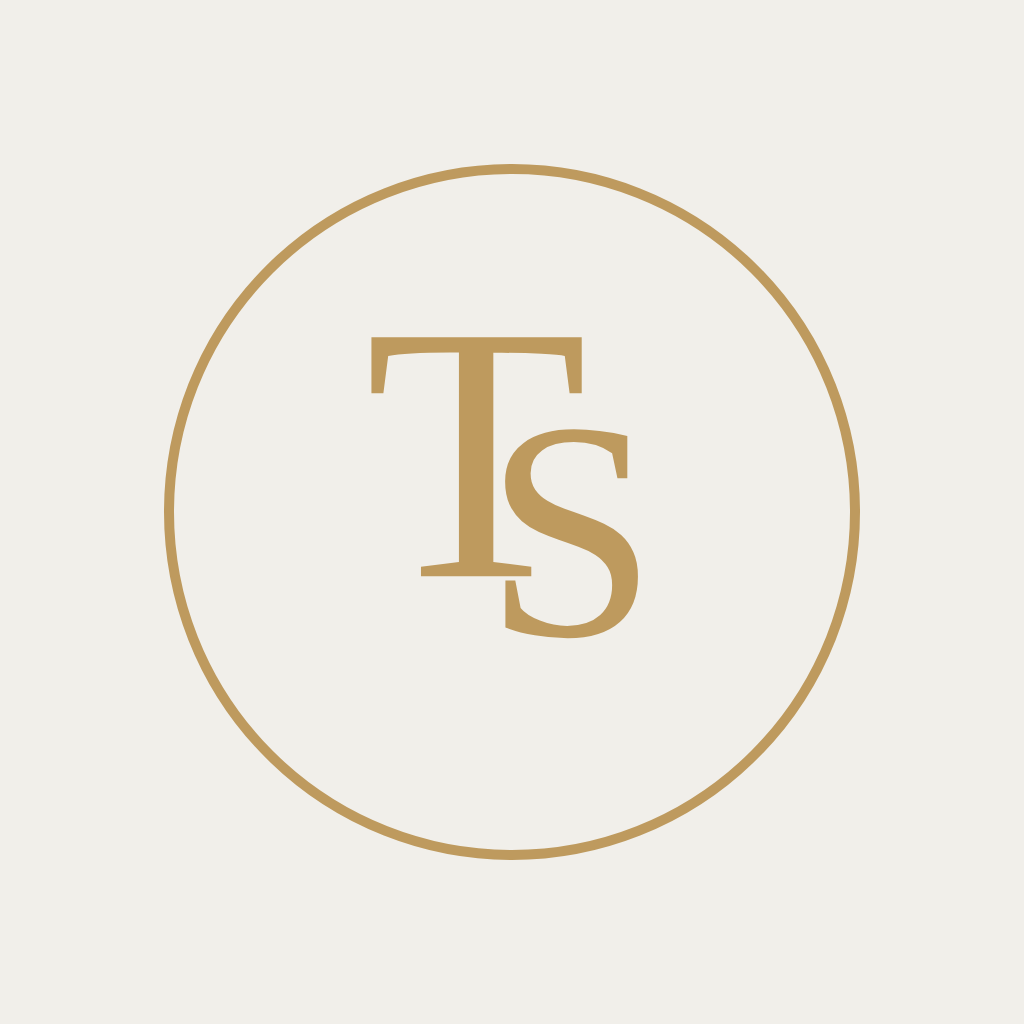
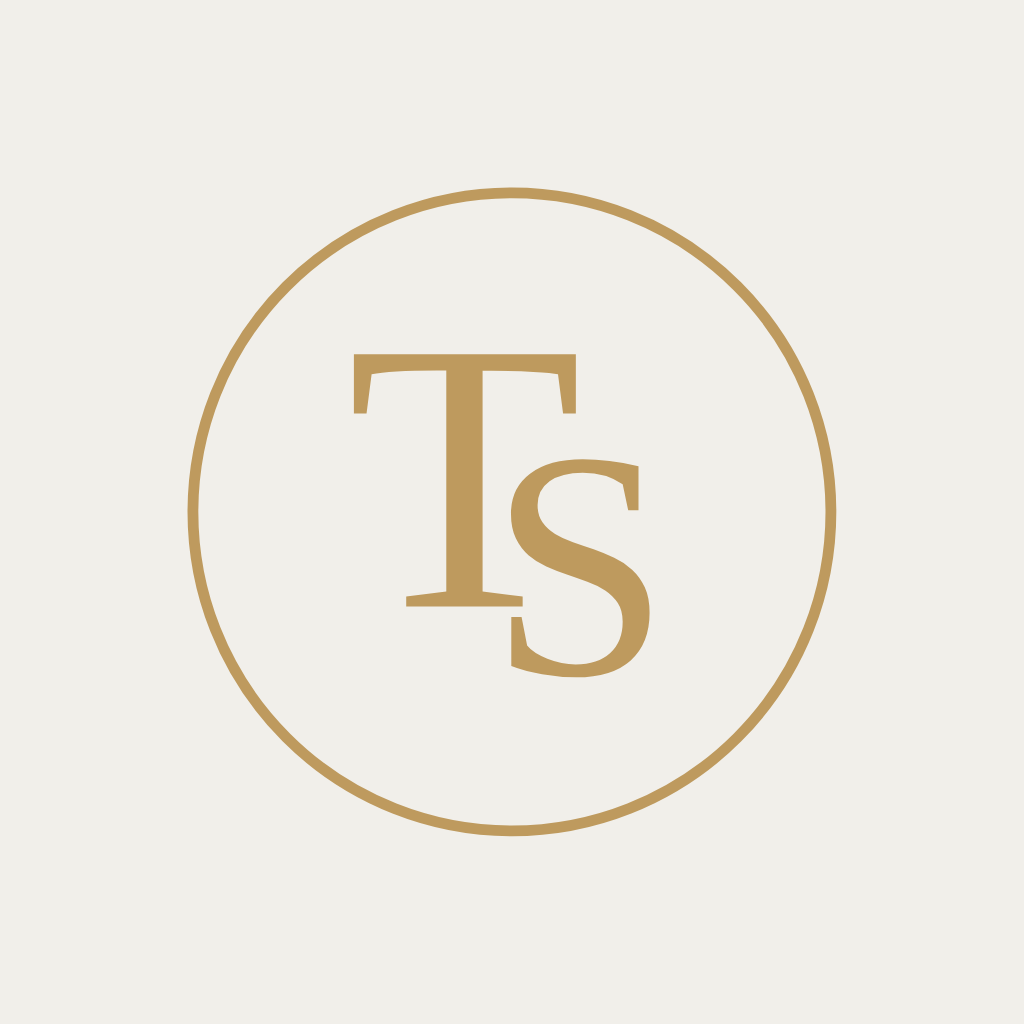
Le monogramme devient un tracé, partagé par les trois surfaces
Les lettres du monogramme s'appuyaient sur le serif du système : Georgia sur
le web, Times sur iOS, le serif d'Android. Trois dessins pour une même marque
— et, à l'impression, un rendu qui dépendait des polices installées sur la
machine.

Les contours du T et du S sont désormais figés dans src/lib/monogramme.js,
extraits de Liberation Serif — métriquement compatible avec Times, et la fonte
que le navigateur rendait pour les maquettes validées. Le dessin est donc
identique à celui qui a été approuvé, mais il ne dépend plus de rien.
Vérification par superposition : le tracé recouvre exactement l'ancien rendu
texte, sans débord.

Ce module pur est partagé par les trois surfaces — écran, documents PDF,
icônes des stores — de sorte qu'aucune ne peut dériver des autres.

Le générateur d'icônes ne vivait jusqu'ici que dans un dossier de travail :
personne d'autre n'aurait pu régénérer les fichiers d'assets/. Il entre dans
le dépôt sous scripts/make-icons.js, lit les mêmes tracés, et accepte un
PLAYWRIGHT_CHROMIUM pour les environnements où Chromium est déjà installé
hors du cache de Playwright.

Vérifié : 200 tests, les quatre icônes régénérées par le script du dépôt, la
marque à l'écran de 28 à 240 px sur clair et sur sombre, et l'en-tête des
documents PDF.

Claude-Session: https://claude.ai/code/session_0122zQepVjjxt6S8ixg8BCJB

Changed region(s): [[0.1562, 0.1562, 0.8438, 0.8438], [0.3438, 0.3125, 0.6562, 0.6875]]

diff --git a/tasalle/scripts/make-icons.js b/tasalle/scripts/make-icons.js
@@ -1,0 +1,106 @@
+/**
+ * Génère les icônes de l'application à partir du monogramme.
+ *
+ *   node scripts/make-icons.js
+ *
+ * Les quatre fichiers d'assets/ sont écrasés. Le dessin vient de
+ * src/lib/monogramme.js — le même que celui de l'écran et des documents PDF —
+ * afin qu'aucune des trois surfaces ne dérive des autres.
+ *
+ * Dépend de Playwright, qui n'est pas une dépendance du projet : c'est un
+ * outil de fabrication, lancé à la main quand la marque change.
+ *   npm i -D playwright
+ *
+ * Si Chromium est déjà présent hors du cache de Playwright, pointez-le :
+ *   PLAYWRIGHT_CHROMIUM=/chemin/vers/chrome node scripts/make-icons.js
+ */
+const fs = require('fs');
+const path = require('path');
+const { chromium } = require('playwright');
+
+const RACINE = path.join(__dirname, '..');
+const OUT = path.join(RACINE, 'assets');
+
+// Le module de tracés est en syntaxe ESM ; ce script tourne sous Node en CJS.
+// Plutôt que d'ajouter une chaîne de compilation pour trois constantes, on les
+// lit dans le fichier. C'est volontairement rustique, et ça casse bruyamment
+// si le fichier change de forme.
+function lireMonogramme() {
+  const src = fs.readFileSync(path.join(RACINE, 'src/lib/monogramme.js'), 'utf8');
+  const constante = (nom) => {
+    const m = src.match(new RegExp(`export const ${nom} =\\s*'([^']*)'`));
+    if (!m) throw new Error(`${nom} introuvable dans src/lib/monogramme.js`);
+    return m[1];
+  };
+  const cercle = src.match(/MONOGRAMME_CERCLE = \{([^}]*)\}/);
+  if (!cercle) throw new Error('MONOGRAMME_CERCLE introuvable');
+  const nombre = (cle) => Number(cercle[1].match(new RegExp(`${cle}:\\s*([\\d.]+)`))[1]);
+  return {
+    T: constante('MONOGRAMME_T'),
+    S: constante('MONOGRAMME_S'),
+    cercle: { cx: nombre('cx'), cy: nombre('cy'), r: nombre('r'), largeur: nombre('largeur') },
+  };
+}
+
+const OR = '#BE9A5E';
+const CREME = '#F1EFEA';
+
+const page = ({ size, bg, scale, radiusRatio }, m) => {
+  const d = size * scale;
+  return `
+<!doctype html><html><head><meta charset="utf-8"><style>
+  html, body { margin:0; padding:0; width:${size}px; height:${size}px; background:transparent; }
+  .fond {
+    width:${size}px; height:${size}px;
+    ${bg ? `background:${bg};` : ''}
+    ${radiusRatio ? `border-radius:${size * radiusRatio}px;` : ''}
+    display:flex; align-items:center; justify-content:center;
+  }
+</style></head><body><div class="fond">
+  <svg width="${d}" height="${d}" viewBox="0 0 100 100" xmlns="http://www.w3.org/2000/svg">
+    <circle cx="${m.cercle.cx}" cy="${m.cercle.cy}" r="${m.cercle.r}"
+            stroke="${OR}" stroke-width="${m.cercle.largeur}" fill="none"/>
+    <path d="${m.T}" fill="${OR}"/>
+    <path d="${m.S}" fill="${OR}"/>
+  </svg>
+</div></body></html>`;
+};
+
+const CIBLES = [
+  // iOS : pleine, sans transparence ni coins arrondis (iOS masque lui-même)
+  { file: 'icon.png', size: 1024, bg: CREME, scale: 0.66, radiusRatio: 0, transparent: false },
+
+  // Android adaptatif : avant-plan transparent. La marque doit tenir dans la
+  // zone sûre centrale, le système rognant les bords.
+  { file: 'adaptive-icon.png', size: 1024, bg: null, scale: 0.46, radiusRatio: 0, transparent: true },
+
+  // Écran de lancement : marque seule, Expo applique la couleur de fond
+  { file: 'splash-icon.png', size: 512, bg: null, scale: 0.62, radiusRatio: 0, transparent: true },
+
+  // Favicon du back-office web : carré arrondi, lisible à 16 px
+  { file: 'favicon.png', size: 196, bg: CREME, scale: 0.78, radiusRatio: 0.22, transparent: false },
+];
+
+(async () => {
+  const monogramme = lireMonogramme();
+  // Certains environnements fournissent Chromium hors du cache de Playwright
+  // (conteneurs CI, images préinstallées) : on laisse une porte de sortie
+  // plutôt que d'imposer `npx playwright install`.
+  const browser = await chromium.launch(
+    process.env.PLAYWRIGHT_CHROMIUM ? { executablePath: process.env.PLAYWRIGHT_CHROMIUM } : {}
+  );
+
+  for (const cible of CIBLES) {
+    const p = await browser.newPage({ viewport: { width: cible.size, height: cible.size } });
+    await p.setContent(page(cible, monogramme));
+    await p.waitForTimeout(150);
+    await p.screenshot({ path: path.join(OUT, cible.file), omitBackground: cible.transparent });
+    console.log(`  ✓ ${cible.file} — ${cible.size}×${cible.size}${cible.transparent ? ' (transparent)' : ''}`);
+    await p.close();
+  }
+
+  await browser.close();
+})().catch((e) => {
+  console.error('Échec :', e.message);
+  process.exit(1);
+});

diff --git a/tasalle/src/components/TasalleLogo.js b/tasalle/src/components/TasalleLogo.js
@@ -1,26 +1,22 @@
-import { Platform, View, Text } from 'react-native';
-import Svg, { Circle, Text as SvgText } from 'react-native-svg';
+import { View, Text } from 'react-native';
+import Svg, { Circle, Path } from 'react-native-svg';
 import { useTheme } from '../context/ThemeContext';
 import { useI18n } from '../i18n';
+import {
+  MONOGRAMME_VIEWBOX,
+  MONOGRAMME_CERCLE,
+  MONOGRAMME_T,
+  MONOGRAMME_S,
+} from '../lib/monogramme';
 
 /**
  * Marque Tasalle — monogramme TS dans un filet circulaire, or sur fond libre.
  *
- * Le monogramme est tracé en SVG plutôt qu'en `<Text>` classique : la
- * superposition du T et du S demande un positionnement au sous-pixel que les
- * primitives de mise en page ne donnent pas.
- *
- * Les lettres restent latines dans les deux langues : la translittération
- * arabe de la marque n'est pas arrêtée.
+ * Les lettres sont des contours, pas du texte : une marque ne peut pas
+ * dépendre des polices installées sur l'appareil. Leur tracé vit dans
+ * lib/monogramme.js, que partagent aussi les documents PDF et le générateur
+ * d'icônes — trois rendus, un seul dessin.
  */
-
-// react-native-svg ne prend qu'une famille par plateforme, pas de pile de
-// repli comme en CSS. On nomme donc le serif de chacune.
-const SERIF = Platform.select({
-  ios: 'Times New Roman',
-  android: 'serif',
-  default: "Georgia, 'Times New Roman', serif",
-});
 
 /** Monogramme seul — utilisable comme avatar, favicon ou puce d'en-tête. */
 export function TasalleMark({ size = 40, color }) {
@@ -30,22 +26,19 @@ export function TasalleMark({ size = 40, color }) {
   // Repère de 100 × 100 : toutes les proportions sont relatives, la marque
   // reste donc nette à n'importe quelle taille.
   return (
-    <Svg width={size} height={size} viewBox="0 0 100 100">
+    <Svg width={size} height={size} viewBox={MONOGRAMME_VIEWBOX}>
       {/* Filet circulaire. Le rayon tient compte de l'épaisseur du trait pour
           que le cercle ne soit pas rogné par le bord du viewBox. */}
-      <Circle cx="50" cy="50" r="47.2" stroke={or} strokeWidth="1.6" fill="none" />
-
-      {/* T et S se chevauchent : le S descend sous la ligne du T et mord sur
-          son pied, comme dans le document de marque. Les deux glyphes sont
-          posés séparément — un simple interlettrage négatif les laisserait
-          côte à côte. Ces valeurs sont celles du générateur d'icônes, pour que
-          la marque à l'écran et celle des stores soient la même. */}
-      <SvgText x="43" y="64" fill={or} fontFamily={SERIF} fontSize="57" textAnchor="middle">
-        T
-      </SvgText>
-      <SvgText x="60" y="74" fill={or} fontFamily={SERIF} fontSize="48" textAnchor="middle">
-        S
-      </SvgText>
+      <Circle
+        cx={MONOGRAMME_CERCLE.cx}
+        cy={MONOGRAMME_CERCLE.cy}
+        r={MONOGRAMME_CERCLE.r}
+        stroke={or}
+        strokeWidth={MONOGRAMME_CERCLE.largeur}
+        fill="none"
+      />
+      <Path d={MONOGRAMME_T} fill={or} />
+      <Path d={MONOGRAMME_S} fill={or} />
     </Svg>
   );
 }

diff --git a/tasalle/src/lib/monogramme.js b/tasalle/src/lib/monogramme.js
@@ -1,0 +1,31 @@
+// Tracés du monogramme Tasalle — le T et le S de la marque.
+//
+// Les lettres s'appuyaient auparavant sur le serif du système : Georgia sur le
+// web, Times sur iOS, le serif d'Android. Trois dessins pour une même marque,
+// et un rendu qui changeait avec les polices installées sur la machine
+// d'impression. Elles sont désormais figées en contours.
+//
+// Ces tracés viennent de Liberation Serif — métriquement compatible avec Times
+// et la fonte que le navigateur rendait pour les maquettes validées. Le
+// résultat est donc identique à ce qui a été approuvé, mais reproductible.
+// Régénération : node scripts/make-icons.js --glyphes (voir le script).
+//
+// Module pur : ni React Native ni Expo, pour que les gabarits PDF et le
+// générateur d'icônes s'en servent aussi.
+
+/** Repère de référence : toutes les coordonnées sont dans ce carré. */
+export const MONOGRAMME_VIEWBOX = '0 0 100 100';
+
+/** Filet circulaire entourant les lettres. */
+export const MONOGRAMME_CERCLE = { cx: 50, cy: 50, r: 47.2, largeur: 1.6 };
+
+/**
+ * Le S descend sous la ligne du T et mord sur son pied : c'est le
+ * chevauchement du document de marque, impossible à obtenir par un simple
+ * interlettrage.
+ */
+export const MONOGRAMME_T =
+  'M51.59 64L34.36 64L34.36 62.52L40.29 61.77L40.29 29.07L38.87 29.07Q31.83 29.07 29.24 29.63L28.49 35.44L26.62 35.44L26.62 26.68L59.46 26.68L59.46 35.44L57.57 35.44L56.82 29.63Q55.98 29.43 53.17 29.28Q50.36 29.13 47.02 29.13L45.66 29.13L45.66 61.77L51.59 62.52Z';
+
+export const MONOGRAMME_S =
+  'M49.91 72.80L49.91 65.54L51.43 65.54L52.25 69.78Q53.12 70.88 55.24 71.73Q57.36 72.57 59.43 72.57Q62.71 72.57 64.55 70.89Q66.39 69.22 66.39 66.27Q66.39 64.58 65.67 63.48Q64.96 62.38 63.80 61.61Q62.64 60.85 61.16 60.32Q59.68 59.80 58.13 59.26Q56.57 58.72 55.09 58.06Q53.61 57.41 52.45 56.40Q51.29 55.39 50.58 53.90Q49.86 52.41 49.86 50.23Q49.86 46.48 52.68 44.35Q55.49 42.22 60.48 42.22Q64.28 42.22 68.73 43.23L68.73 49.77L67.21 49.77L66.39 45.92Q64 44.19 60.48 44.19Q57.34 44.19 55.57 45.46Q53.80 46.74 53.80 48.99Q53.80 50.52 54.52 51.52Q55.23 52.53 56.39 53.25Q57.55 53.96 59.04 54.48Q60.53 54.99 62.09 55.54Q63.64 56.09 65.13 56.79Q66.62 57.48 67.78 58.54Q68.94 59.61 69.66 61.14Q70.37 62.68 70.37 64.93Q70.37 69.48 67.58 71.97Q64.79 74.47 59.54 74.47Q57.01 74.47 54.46 74.02Q51.90 73.58 49.91 72.80Z';

diff --git a/tasalle/src/services/pdfTemplates.js b/tasalle/src/services/pdfTemplates.js
@@ -10,6 +10,21 @@
 // pourrait injecter du balisage dans le contrat.
 
 import { formatDA, formatLongDate, displayPhone, monthGrid } from '../lib/format';
+import {
+  MONOGRAMME_VIEWBOX,
+  MONOGRAMME_CERCLE,
+  MONOGRAMME_T,
+  MONOGRAMME_S,
+} from '../lib/monogramme';
+
+/** Marque en SVG inline : le document ne dépend d'aucune police installée. */
+const MARQUE_OR = '#BE9A5E';
+const SIGLE = `<svg class="sigle" viewBox="${MONOGRAMME_VIEWBOX}" xmlns="http://www.w3.org/2000/svg">
+    <circle cx="${MONOGRAMME_CERCLE.cx}" cy="${MONOGRAMME_CERCLE.cy}" r="${MONOGRAMME_CERCLE.r}"
+            stroke="${MARQUE_OR}" stroke-width="${MONOGRAMME_CERCLE.largeur}" fill="none"/>
+    <path d="${MONOGRAMME_T}" fill="${MARQUE_OR}"/>
+    <path d="${MONOGRAMME_S}" fill="${MARQUE_OR}"/>
+  </svg>`;
 
 const ENTITIES = { '&': '&amp;', '<': '&lt;', '>': '&gt;', '"': '&quot;', "'": '&#39;' };
 
@@ -27,14 +42,7 @@ const STYLES = `
   .marque { display: flex; align-items: center; gap: 11px; margin-bottom: 4px; }
   /* Monogramme TS dans son filet circulaire, repris du document de marque.
      L'or n'y sert qu'au logo — jamais au texte, où il serait illisible. */
-  .sigle { position: relative; width: 36px; height: 36px; border-radius: 50%;
-           border: 1px solid #BE9A5E; color: #BE9A5E;
-           font-family: Georgia, 'Times New Roman', serif; line-height: 1; }
-  /* Mêmes proportions que le monogramme de l'application : le S descend sous
-     la ligne du T et mord sur son pied. */
-  .sigle i { position: absolute; font-style: normal; left: 50%; top: 50%; }
-  .sigle .t { font-size: 19px; transform: translate(-66%, -66%); }
-  .sigle .s { font-size: 16px; transform: translate(-16%, -44%); }
+  .sigle { width: 36px; height: 36px; display: block; }
   .nom { font-size: 15px; font-weight: 600; letter-spacing: .16em; }
   h1 { font-size: 19px; font-weight: 600; margin: 18px 0 2px; }
   .meta { color: #8B7E72; font-size: 11px; margin-bottom: 18px; }
@@ -64,7 +72,7 @@ const STYLES = `
 
 function enTete(titre, sousTitre) {
   return `
-    <div class="marque"><div class="sigle"><i class="t">T</i><i class="s">S</i></div><div class="nom">TASALLE</div></div>
+    <div class="marque">${SIGLE}<div class="nom">TASALLE</div></div>
     <h1>${escapeHtml(titre)}</h1>
     <div class="meta">${escapeHtml(sousTitre)}</div>`;
 }
